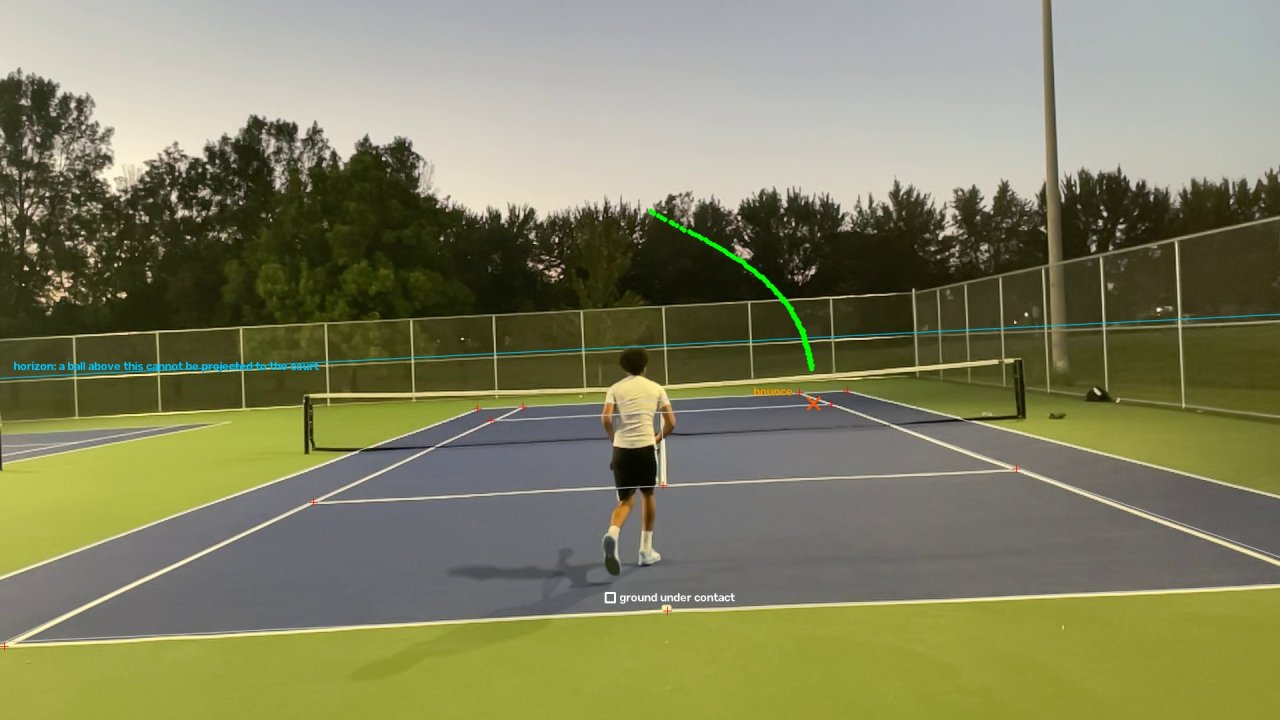
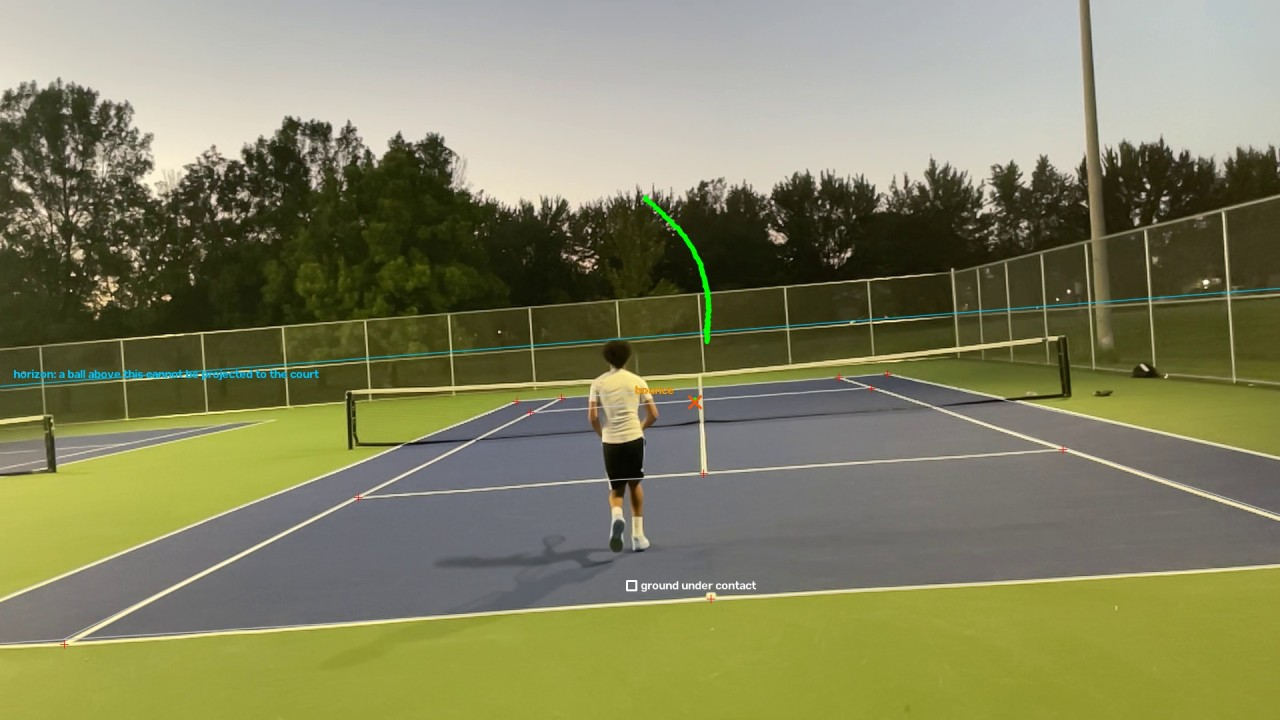
Show the same serve in both README images

Changed region(s): [[0.0, 0.0, 1.0, 0.9167], [0.3125, 0.3667, 0.375, 0.3972], [0.2812, 0.3056, 0.3125, 0.3667]]

diff --git a/README.md b/README.md
@@ -7,9 +7,9 @@ single smartphone video. One command, nothing marked by hand.
 
 ![Fitted 3D flight of a serve, side view and top view](assets/trajectory_views.png)
 
-*Top: the tracked ball path and bounce on one serve. Bottom: a 94 km/h slice serve
-reconstructed in 3D from the same handheld clip. The sideways curve in the top view is
-the spin.*
+*The same serve twice. Top: the tracked ball path and detected bounce, from one handheld
+phone clip. Bottom: its flight reconstructed in 3D, landing by the T. The
+sideways curve in the top view is the spin.*
 
 ## How it works
 
